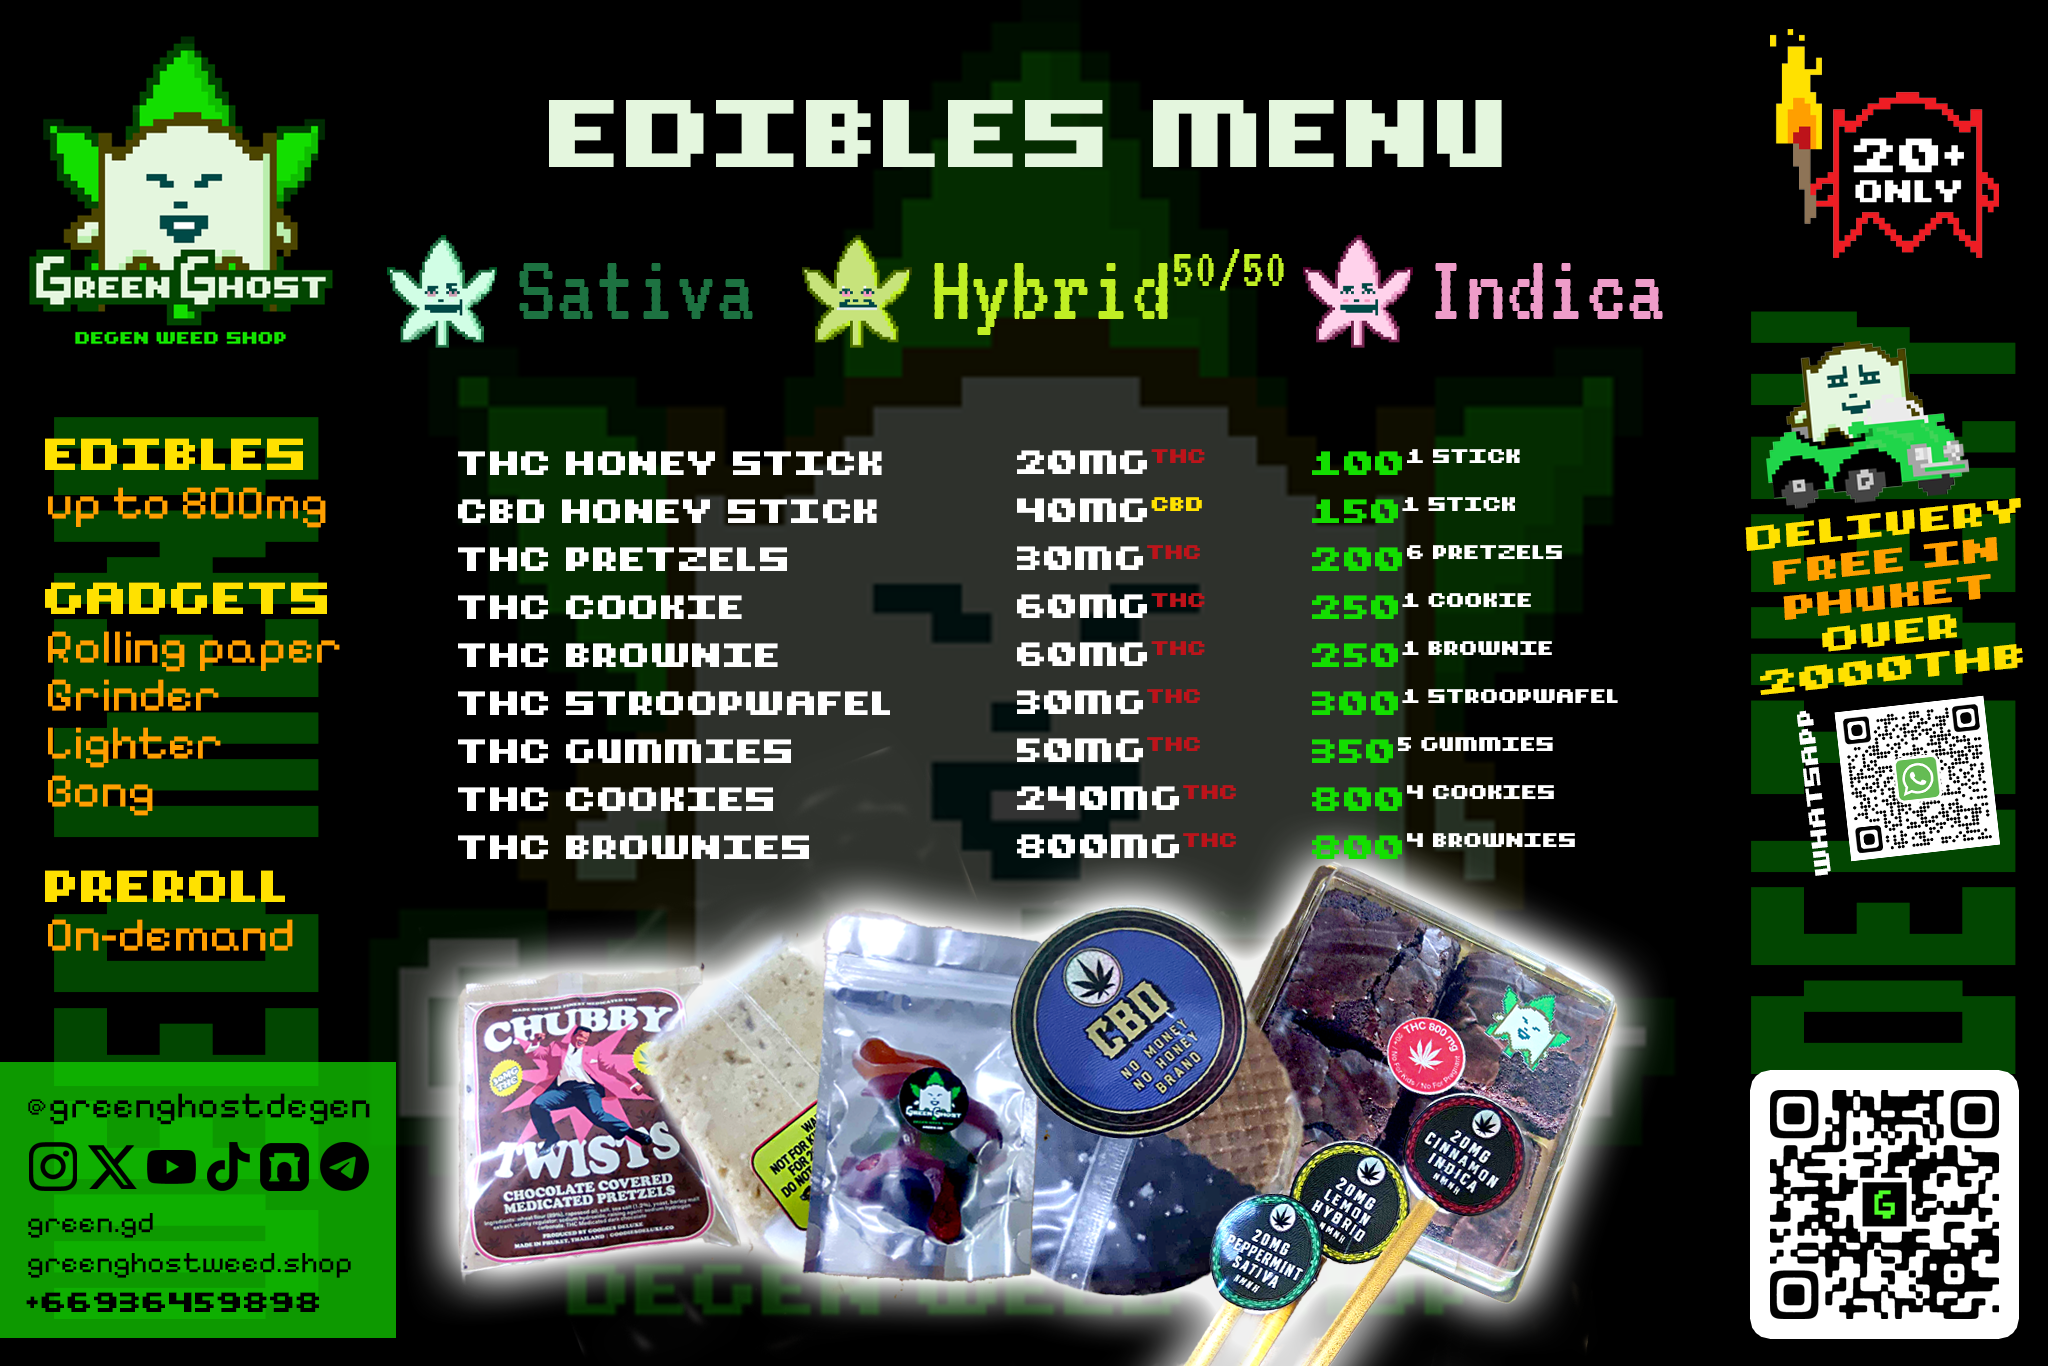
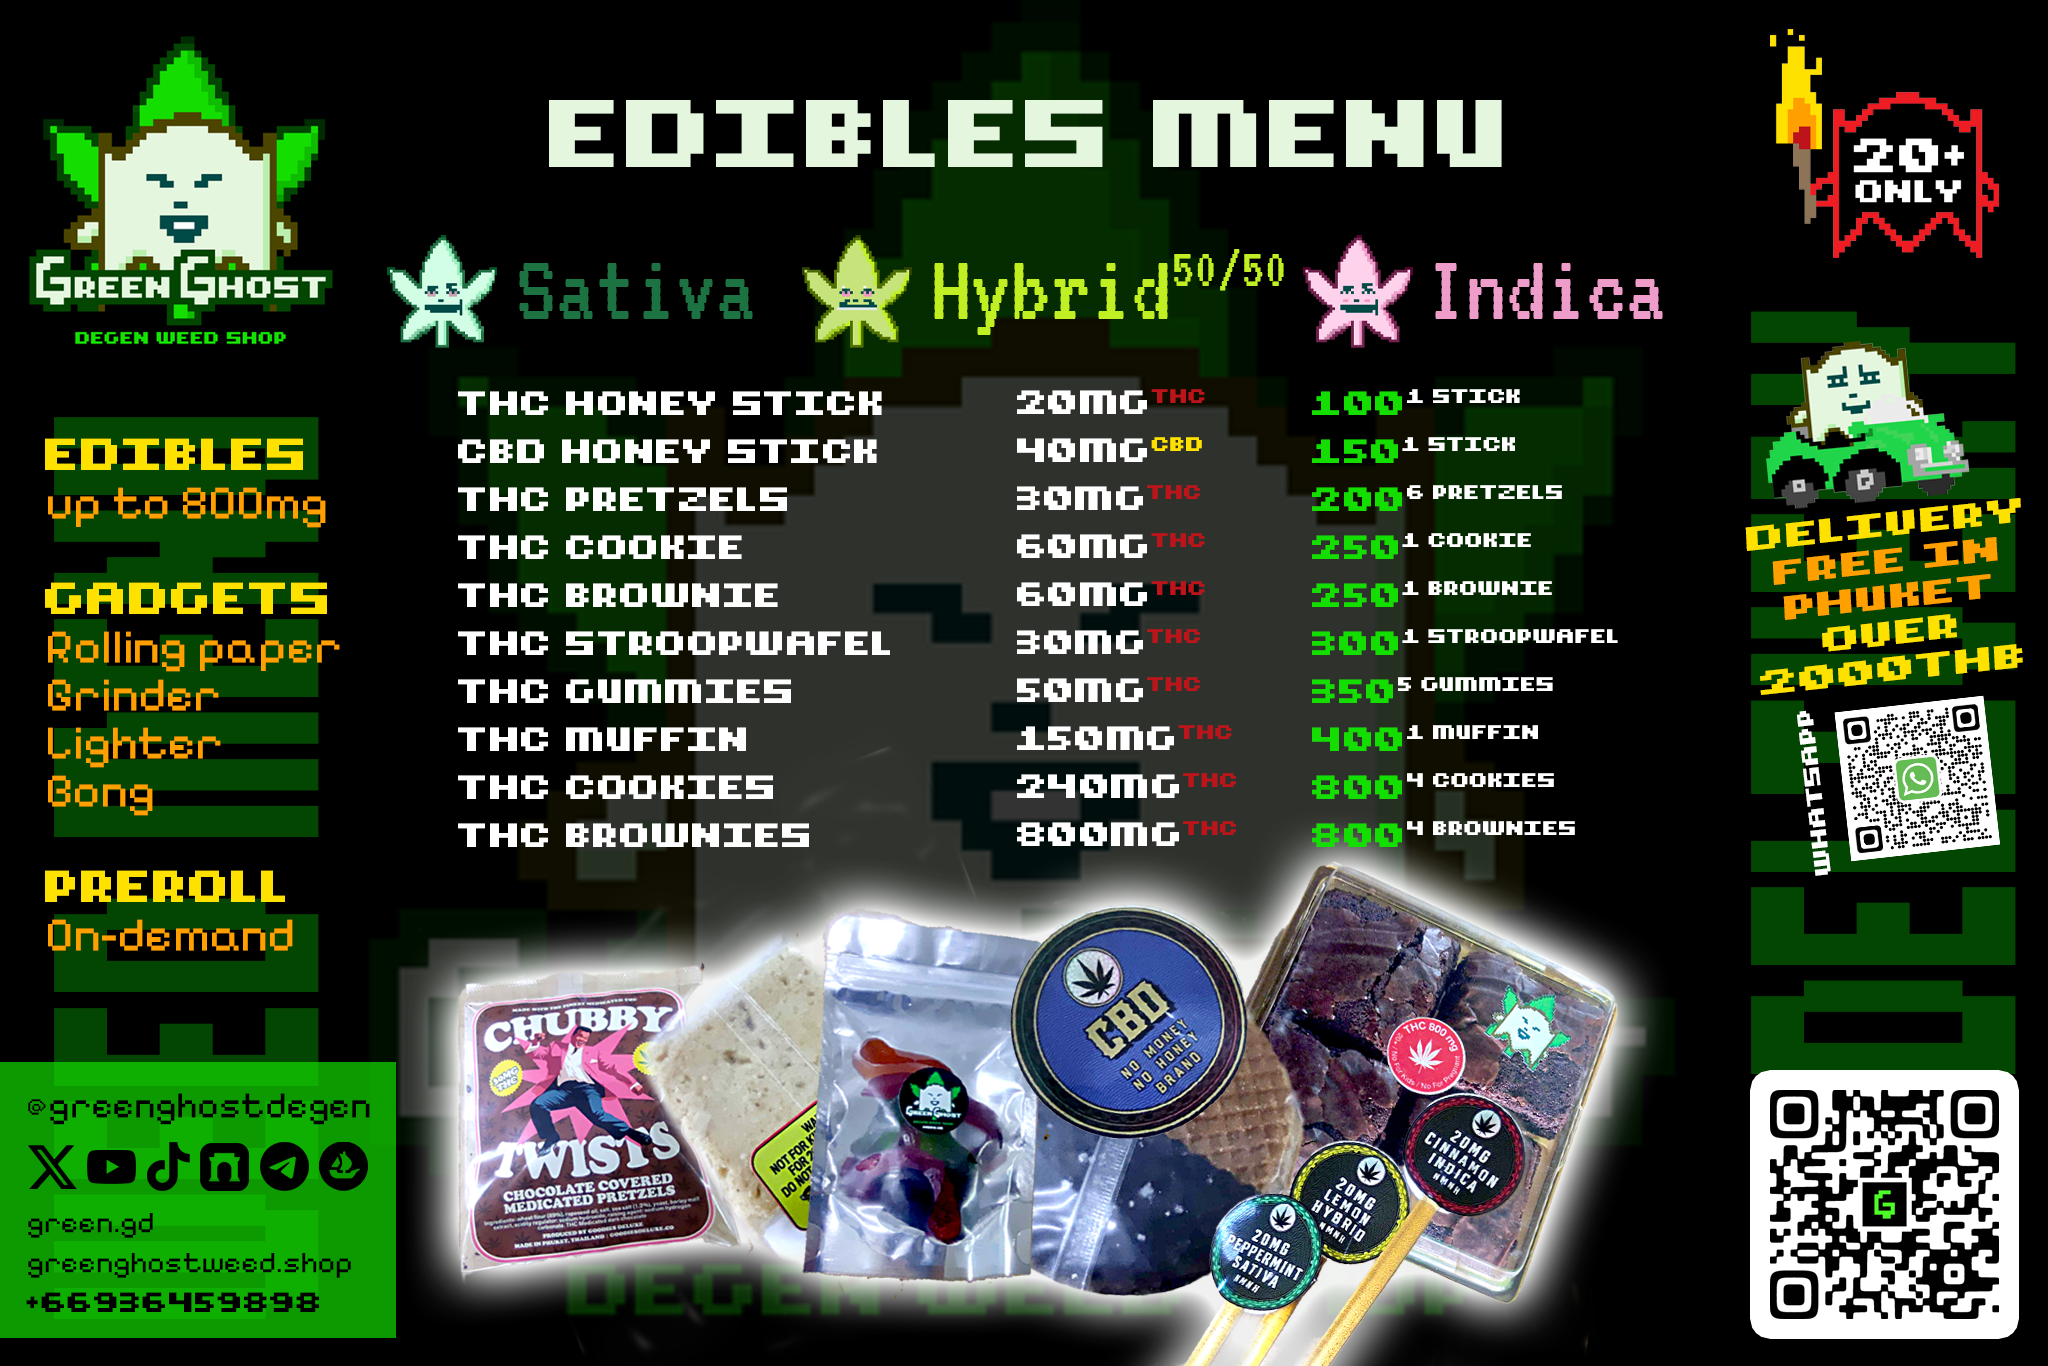
Update menu

Changed region(s): [[0.5, 0.2767, 0.7812, 0.6457], [0.2188, 0.2767, 0.4375, 0.6457], [0.0, 0.8302, 0.1875, 0.8917]]

diff --git a/config/buds.ts b/config/buds.ts
@@ -159,7 +159,7 @@ export const buds: Bud[] = [
     description:
       "L.A. Haze is a sativa-dominant hybrid born from an expert blend of LA Confidential, Kali Mist, and Afghan Haze F2 genetics. Crafted by Gage Green Genetics, this strain delivers an exceptional cerebral experience that balances energizing euphoria with calming relaxation. Known for its potent sativa effects, L.A. Haze is a go-to for users seeking an uplifting, creative high that fosters focus and productivity. \n\n This strain's effects are perfect for relieving mental burdens, offering a natural remedy for migraines, headaches, and mental health challenges like anxiety, chronic stress, depression, and PTSD. L.A. Haze pairs therapeutic benefits with an enjoyable recreational experience, leaving users feeling tingly, giggly, and comfortably relaxed. \n\n The flavor and aroma are a harmonious fusion of herbal, citrus, and earthy notes, reminiscent of its Afghani heritage. Each inhale is an invigorating burst of spicy herbal tones, with hints of sweet citrus lingering on the exhale. As the high sets in, expect super yields of creative energy paired with a light physical buzz that keeps you uplifted without overwhelming sedation. A favorite for daytime use, L.A. Haze is a versatile strain for those seeking relief or simply chasing an enjoyable high. Its balance of euphoria and calm makes it a unique and unforgettable choice for cannabis connoisseurs.",
     descSeo:
-      "L.A. Haze: A sativa-dominant hybrid with uplifting effects, treating migraines, stress, and PTSD. Enjoy its energizing buzz and citrus-herbal flavors.",
+      'L.A. Haze: A sativa-dominant hybrid with uplifting effects, treating migraines, stress, and PTSD. Enjoy its energizing buzz and citrus-herbal flavors.',
     images: [
       '/media/green-ghost-degen-weed-shop-strain-la-haze-cover.webp',
       '/media/green-ghost-degen-weed-shop-strain-la-haze-cover.webp',
@@ -418,9 +418,9 @@ export const buds: Bud[] = [
     quantity: 50,
     origin: 'Phuket',
     description:
-      "Slaphappy is a captivating 70/30 indica-dominant hybrid from the creative minds at Exotic Genetix, bred by crossing Tina (Constantine x Triple OG) with Gary Poppins (Gary Payton x Red Runtz). This strain is a sensory masterpiece, showcasing deep purple buds adorned with fiery orange hairs and a rich, dark foliage backdrop. Its aroma is equally striking, blending sweet caramel, diesel, spices, and a bold kerosene-like fuel scent, promising a complex and unforgettable profile. \n\n Slaphappy is not only a delight for connoisseurs but also a favorite among growers. Known for its robust genetics, this strain offers exceptional production and ease of cultivation, making it a top pick for both experienced and novice cultivators. With its lineage tied to iconic strains like Slippery Susan and Cream & Sugar, Slaphappy carries forward the exotic terpene profiles Exotic Genetix is celebrated for. \n\n The effects are as potent as the aroma, delivering a powerful punch of relaxation and euphoria. Ideal for evening use, Slaphappy melts away stress and tension, replacing it with a sense of tranquility and contentment. Its unique terpene profile, reminiscent of Kool-Aid drinks, makes every session a flavorful journey. This strain is a go-to for managing chronic pain, insomnia, and stress while providing a sweet escape into relaxation.",
+      'Slaphappy is a captivating 70/30 indica-dominant hybrid from the creative minds at Exotic Genetix, bred by crossing Tina (Constantine x Triple OG) with Gary Poppins (Gary Payton x Red Runtz). This strain is a sensory masterpiece, showcasing deep purple buds adorned with fiery orange hairs and a rich, dark foliage backdrop. Its aroma is equally striking, blending sweet caramel, diesel, spices, and a bold kerosene-like fuel scent, promising a complex and unforgettable profile. \n\n Slaphappy is not only a delight for connoisseurs but also a favorite among growers. Known for its robust genetics, this strain offers exceptional production and ease of cultivation, making it a top pick for both experienced and novice cultivators. With its lineage tied to iconic strains like Slippery Susan and Cream & Sugar, Slaphappy carries forward the exotic terpene profiles Exotic Genetix is celebrated for. \n\n The effects are as potent as the aroma, delivering a powerful punch of relaxation and euphoria. Ideal for evening use, Slaphappy melts away stress and tension, replacing it with a sense of tranquility and contentment. Its unique terpene profile, reminiscent of Kool-Aid drinks, makes every session a flavorful journey. This strain is a go-to for managing chronic pain, insomnia, and stress while providing a sweet escape into relaxation.',
     descSeo:
-      "Slaphappy is a 70/30 indica-dominant hybrid with rich flavors of caramel, diesel, and spices. It delivers powerful relaxation and stress relief.",
+      'Slaphappy is a 70/30 indica-dominant hybrid with rich flavors of caramel, diesel, and spices. It delivers powerful relaxation and stress relief.',
     images: [
       '/media/green-ghost-degen-weed-shop-strain-slaphappy-bud-01.webp',
       '/media/green-ghost-degen-weed-shop-strain-slaphappy-cover.webp',

diff --git a/config/edibles.ts b/config/edibles.ts
@@ -184,6 +184,27 @@ export const edibles: Edible[] = [
     imgDesc: 'Green Ghost 🌿👻 Degen Weed Shop Best Brownie THC Edible',
   },
   {
+    slug: 'thc-muffin',
+    name: 'THC Muffin',
+    price: 400,
+    packaging: '1 Muffin',
+    THC: '150',
+    CBD: '0',
+    effects: 'Uplifted, Relaxed, Creative',
+    ingretiens: 'Dark chocolate, Sugar, Cannabutter, Eggs, Flour',
+    quantity: 1,
+    description:
+      'Indulge in the ultimate cannabis treat with our THC Muffin, crafted using an exclusive blend of premium Exotic Genetix weed strains. Each muffin is infused with a potent 150 mg of THC, delivering a powerful and enjoyable experience tailored to seasoned enthusiasts. With a rich chocolate taste, this muffin offers the perfect balance of decadent flavor and euphoric effects. \n\n The THC Muffin isn’t just about indulgence—it’s an adventure. The blend of Exotic Genetix strains ensures a complex profile of cannabinoids and terpenes, enhancing the overall experience. The muffin delivers a gradual onset of effects, starting with a cerebral buzz that uplifts your mood and sparks creativity. As the high deepens, you’ll notice a calming wave of relaxation enveloping your body, making it ideal for unwinding after a long day or elevating social moments. \n\n Perfect for recreational use and therapeutic relief, this muffin can help alleviate symptoms of chronic pain, stress, and anxiety. It’s also a great choice for those battling insomnia, as the relaxing properties may ease you into a restful sleep. Convenient, discreet, and irresistibly tasty, the THC Muffin is the perfect blend of flavor and potency.',
+    descSeo:
+      'Experience indulgence with our THC Muffin: 150 mg of premium Exotic Genetix strains, rich chocolate taste, uplifting effects, and relaxing relief in every bite.',
+    images: [
+      '/media/green-ghost-degen-weed-shop-menu-edible-thc-muffin-cover.webp',
+      '/media/green-ghost-degen-weed-shop-menu-edible-thc-muffin-cover.webp',
+      '/media/green-ghost-degen-weed-shop-menu-edible-thc-muffin-cover.webp',
+    ],
+    imgDesc: 'Green Ghost 🌿👻 Degen Weed Shop Best Muffin THC Edible',
+  },
+  {
     slug: 'thc-brownies',
     name: 'THC Brownies',
     price: 800,

diff --git a/components/SocialMediaIcons.tsx b/components/SocialMediaIcons.tsx
@@ -56,20 +56,20 @@ export const SocialMediaIcons = () => {
             title="Subscribe on Youtube"
           />
         </Box>{' '}
-        <Box bgColor={'#13DE00'} borderRadius={'100%'}>
+        {/* <Box bgColor={'#13DE00'} borderRadius={'100%'}>
           <SocialIcon
             url="https://www.instagram.com/greenghostdegen"
             bgColor={'black'}
             style={{ width: 40, height: 40 }}
             title="Follow Us on Instagram"
           />
-        </Box>
+        </Box> */}
         <Box bgColor={'#13DE00'} borderRadius={'100%'}>
           <SocialIcon
-            url="https://twitter.com/greenghostdegen"
+            url="https://x.com/greenghostdegen"
             bgColor={'black'}
             style={{ width: 40, height: 40 }}
-            title="Follow Us on Twitter"
+            title="Follow Us on X"
           />
         </Box>
         <Box bgColor={'#13DE00'} borderRadius={'100%'}>

diff --git a/components/BestWeed.tsx b/components/BestWeed.tsx
@@ -6,7 +6,7 @@ const selectedStrains = [
   'Scotty 2 Hotty',
   'Thai Stick',
   'Northern Lights',
-  'Drippin’ Aint Eazy',
+  'Strawneapple',
   'Mango Sticky Rice',
 ];
 
